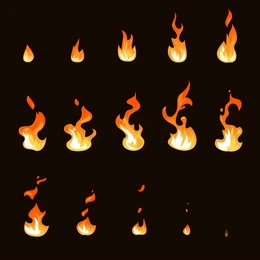
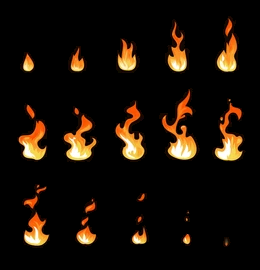
Deja funcionando muestra de fuego dinamica

diff --git a/client/drawer/animations/fire_drawer.cpp b/client/drawer/animations/fire_drawer.cpp
@@ -5,7 +5,7 @@ FireDrawer::FireDrawer(SDL2pp::Renderer& renderer, TextureManager& texture_manag
 
 void FireDrawer::draw(const RenderedState& rendered_state) {
     check_new_fires(rendered_state);
-    update_fires();
+    update_fires(rendered_state);
     clear_inactive_fires();
 }
 
@@ -25,7 +25,7 @@ void FireDrawer::check_new_fires(const RenderedState& rendered_state) {
     }
 }
 
-void FireDrawer::update_fires() {
+void FireDrawer::update_fires(const RenderedState& rendered_state) {
     for (auto& fire: fires) {
         if (fire.active) {
             fire.tick_count++;
@@ -34,13 +34,17 @@ void FireDrawer::update_fires() {
                 fire.current_frame++;
                 if (fire.current_frame >= AMOUNT_OF_FIRES) {
                     fire.active = false;  // Desactivar el fuego después de la última frame
+                    continue;
                 }
             }
 
             Sprite fire_sprite = texture_manager.get_fire_sprite(fire.current_frame);
-            SDL2pp::Rect dst_rect(static_cast<int>(fire.x) - fire_sprite.src_rect.w / 2,
-                                  static_cast<int>(fire.y) - fire_sprite.src_rect.h / 2,
-                                  fire_sprite.src_rect.w, fire_sprite.src_rect.h);
+
+            int screen_x = static_cast<int>(fire.x) - rendered_state.map_sprite.src_rect.x;
+            int screen_y = static_cast<int>(fire.y) - rendered_state.map_sprite.src_rect.y;
+
+            SDL2pp::Rect dst_rect(screen_x, screen_y, fire_sprite.src_rect.w,
+                                  fire_sprite.src_rect.h);
 
             renderer.Copy(fire_sprite.texture, fire_sprite.src_rect, dst_rect);
         }

diff --git a/client/drawer/drawerSDL.cpp b/client/drawer/drawerSDL.cpp
@@ -9,6 +9,7 @@ DrawerSDL::DrawerSDL(SDL2pp::Renderer& renderer, TextureManager& texture_manager
     drawers.push_back(std::make_unique<ArrowDrawer>(renderer, texture_manager));
     drawers.push_back(std::make_unique<CheckpointDrawer>(renderer, texture_manager));
     drawers.push_back(std::make_unique<CarDrawer>(renderer, texture_manager));
+    drawers.push_back(std::make_unique<FireDrawer>(renderer, texture_manager));
 }
 
 void DrawerSDL::update_game_state(const ServerMessageDTO& msg, int iterations_ahead) {

diff --git a/client/drawer/animations/fire_drawer.h b/client/drawer/animations/fire_drawer.h
@@ -21,10 +21,10 @@ struct FireInstance {
 class FireDrawer: public Drawer {
 private:
     std::vector<FireInstance> fires;
-    int frame_duration = 5;  // Duración de cada frame en ticks
+    int frame_duration = 10;  // Duración de cada frame en ticks
 
     void check_new_fires(const RenderedState& rendered_state);
-    void update_fires();
+    void update_fires(const RenderedState& rendered_state);
     void clear_inactive_fires();
 
 public:

diff --git a/client/graphics/animations/fire_sheet.h b/client/graphics/animations/fire_sheet.h
@@ -16,7 +16,7 @@ constexpr const char* PATH_FIRE = "../client/assets/animations/fuego.png";
 #define FIRE_TYPES_PER_ROW 5
 #define FIRE_TYPES_PER_COL 3
 #define FIRE_WIDTH_IMAGE 260
-#define FIRE_HEIGHT_IMAGE 260
+#define FIRE_HEIGHT_IMAGE 265
 
 class FireSheet: public AnimationSheet {
 public:

diff --git a/client/drawer/drawerSDL.h b/client/drawer/drawerSDL.h
@@ -12,6 +12,7 @@
 #include "../../common/messageDTOs.h"
 #include "../config/constants.h"
 #include "../graphics/texture_manager.h"
+#include "animations/fire_drawer.h"
 
 #include "arrow_drawer.h"
 #include "car_drawer.h"
